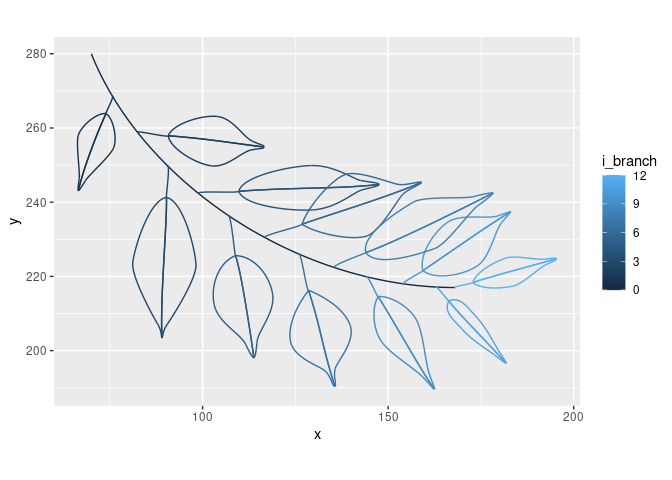
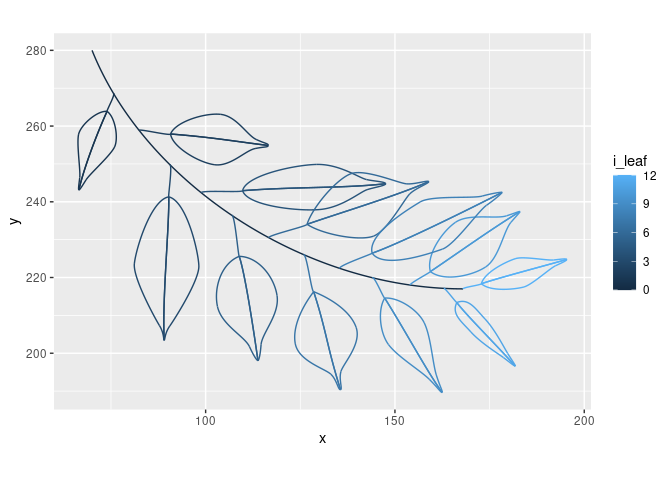
rename i_branch to i_leaf

diff --git a/README.md b/README.md
@@ -180,31 +180,31 @@ You can also generate branches of leaves with the command
 ``` r
 df_branch <- benjamini_branch() %>%
   # we add a unique identifier `b` for all beziers:
-  tidyr::unite(b, i_branch, element, i_part, remove = FALSE) 
+  tidyr::unite(b, i_leaf, element, i_part, remove = FALSE) 
 df_branch
 #> # A tibble: 436 × 8
-#>    b          i_branch element i_part     x     y type        param_type        
-#>    <chr>         <dbl> <chr>    <dbl> <dbl> <dbl> <chr>       <chr>             
-#>  1 0_branch_1        0 branch       1  70    280  branch      bezier start point
-#>  2 0_branch_1        0 branch       1  84    245  branch      bezier control po…
-#>  3 0_branch_1        0 branch       1 126    217  branch      bezier control po…
-#>  4 0_branch_1        0 branch       1 168    217  branch      bezier end point  
-#>  5 1_stalk_0         1 stalk        0  75.7  269. leaf_bezier bezier start point
-#>  6 1_stalk_0         1 stalk        0  76.2  268. leaf_bezier bezier control po…
-#>  7 1_stalk_0         1 stalk        0  73.8  264  leaf_bezier bezier control po…
-#>  8 1_stalk_0         1 stalk        0  74.0  264. leaf_bezier bezier end point  
-#>  9 1_half 2_1        1 half 2       1  74.0  264. leaf_bezier bezier start point
-#> 10 1_half 2_1        1 half 2       1  71.4  264. leaf_bezier bezier control po…
+#>    b          i_leaf element i_part     x     y type        param_type          
+#>    <chr>       <dbl> <chr>    <dbl> <dbl> <dbl> <chr>       <chr>               
+#>  1 0_branch_1      0 branch       1  70    280  branch      bezier start point  
+#>  2 0_branch_1      0 branch       1  84    245  branch      bezier control poin…
+#>  3 0_branch_1      0 branch       1 126    217  branch      bezier control poin…
+#>  4 0_branch_1      0 branch       1 168    217  branch      bezier end point    
+#>  5 1_stalk_0       1 stalk        0  75.7  269. leaf_bezier bezier start point  
+#>  6 1_stalk_0       1 stalk        0  76.2  268. leaf_bezier bezier control poin…
+#>  7 1_stalk_0       1 stalk        0  73.8  264  leaf_bezier bezier control poin…
+#>  8 1_stalk_0       1 stalk        0  74.0  264. leaf_bezier bezier end point    
+#>  9 1_half 2_1      1 half 2       1  74.0  264. leaf_bezier bezier start point  
+#> 10 1_half 2_1      1 half 2       1  71.4  264. leaf_bezier bezier control poin…
 #> # … with 426 more rows
 ```
 
 As the following plot also shows, `benjamini_branch()` adds another
-column `i_branch` specifying the index of the leaf on the branch.
+column `i_leaf` specifying the index of the leaf on the branch.
 
 ``` r
 df_branch %>%
   ggplot2::ggplot() +
-  ggforce::geom_bezier(ggplot2::aes(x = x, y = y, group = b, color = i_branch)) +
+  ggforce::geom_bezier(ggplot2::aes(x = x, y = y, group = b, color = i_leaf)) +
   ggplot2::coord_equal()
 ```
 
@@ -219,11 +219,11 @@ with polygons:
 ``` r
 df_polygons <- df_branch %>% 
   filter(stringr::str_detect(element, "^half [12]$")) %>%
-  unite(idx, i_branch, element, remove = FALSE) %>%
-  gen_leaf_bezier_coords(idx, i_branch, element, i_part, n = 100)
+  unite(idx, i_leaf, element, remove = FALSE) %>%
+  gen_leaf_bezier_coords(idx, i_leaf, element, i_part, n = 100)
 ggplot(
   data = df_polygons,
-  aes(x = x, y = y, group = idx, fill = i_branch)
+  aes(x = x, y = y, group = idx, fill = i_leaf)
 ) +
   geom_polygon(show.legend = FALSE, color = "black") +
   scale_fill_gradientn(colours = c("darkgreen", "green")) +

diff --git a/tests/testthat/_snaps/generate_data.md b/tests/testthat/_snaps/generate_data.md
@@ -24,18 +24,18 @@
       df_branch
     Output
       # A tibble: 436 x 8
-         b          i_branch element i_part     x     y type        param_type        
-         <chr>         <dbl> <chr>    <dbl> <dbl> <dbl> <chr>       <chr>             
-       1 1_0_branch        0 branch       1  70    280  branch      bezier start point
-       2 1_0_branch        0 branch       1  84    245  branch      bezier control po~
-       3 1_0_branch        0 branch       1 126    217  branch      bezier control po~
-       4 1_0_branch        0 branch       1 168    217  branch      bezier end point  
-       5 0_1_stalk         1 stalk        0  75.7  269. leaf_bezier bezier start point
-       6 0_1_stalk         1 stalk        0  75.8  269. leaf_bezier bezier control po~
-       7 0_1_stalk         1 stalk        0  82.9  266. leaf_bezier bezier control po~
-       8 0_1_stalk         1 stalk        0  83.0  267. leaf_bezier bezier end point  
-       9 1_1_half 2        1 half 2       1  83.0  267. leaf_bezier bezier start point
-      10 1_1_half 2        1 half 2       1  83.0  264. leaf_bezier bezier control po~
+         b          i_leaf element i_part     x     y type        param_type          
+         <chr>       <dbl> <chr>    <dbl> <dbl> <dbl> <chr>       <chr>               
+       1 1_0_branch      0 branch       1  70    280  branch      bezier start point  
+       2 1_0_branch      0 branch       1  84    245  branch      bezier control poin~
+       3 1_0_branch      0 branch       1 126    217  branch      bezier control poin~
+       4 1_0_branch      0 branch       1 168    217  branch      bezier end point    
+       5 0_1_stalk       1 stalk        0  75.7  269. leaf_bezier bezier start point  
+       6 0_1_stalk       1 stalk        0  75.8  269. leaf_bezier bezier control poin~
+       7 0_1_stalk       1 stalk        0  82.9  266. leaf_bezier bezier control poin~
+       8 0_1_stalk       1 stalk        0  83.0  267. leaf_bezier bezier end point    
+       9 1_1_half 2      1 half 2       1  83.0  267. leaf_bezier bezier start point  
+      10 1_1_half 2      1 half 2       1  83.0  264. leaf_bezier bezier control poin~
       # ... with 426 more rows
 
 # bezier elements to polygons transformations work
